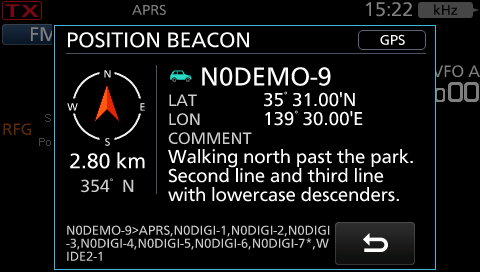
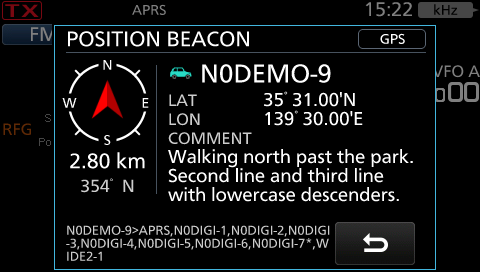
Use the native compass and align headers in the APRS replay

Changed region(s): [[0.125, 0.0882, 0.9062, 0.5294], [0.3438, 0.2353, 0.6875, 0.3235], [0.1562, 0.4412, 0.1875, 0.5]]

diff --git a/docs/converter/aprs-sim.js b/docs/converter/aprs-sim.js
@@ -3,7 +3,8 @@ const ctx = canvas.getContext("2d", {alpha: false});
 const controls = document.querySelector("#controls");
 const source = document.querySelector("#position-source");
 const status = document.querySelector("#announcement");
-const asset = name => new URL("./aprs-panel/" + name, import.meta.url);
+const replayVersion = new URL(import.meta.url).search;
+const asset = name => new URL("./aprs-panel/" + name + replayVersion, import.meta.url);
 const images = new Map();
 const stack = [{name: "fm"}];
 const records = [];

diff --git a/docs/aprs-sim.html b/docs/aprs-sim.html
@@ -7,7 +7,7 @@
   <title>APRS 模拟操作 · IC-705</title>
   <link rel="stylesheet" href="converter/style.css">
   <link rel="stylesheet" href="converter/aprs-sim.css?v=3">
-  <script type="module" src="converter/aprs-sim.js?v=3"></script>
+  <script type="module" src="converter/aprs-sim.js?v=4"></script>
 </head>
 <body class="aprs-sim">
   <header><div class="bar">
